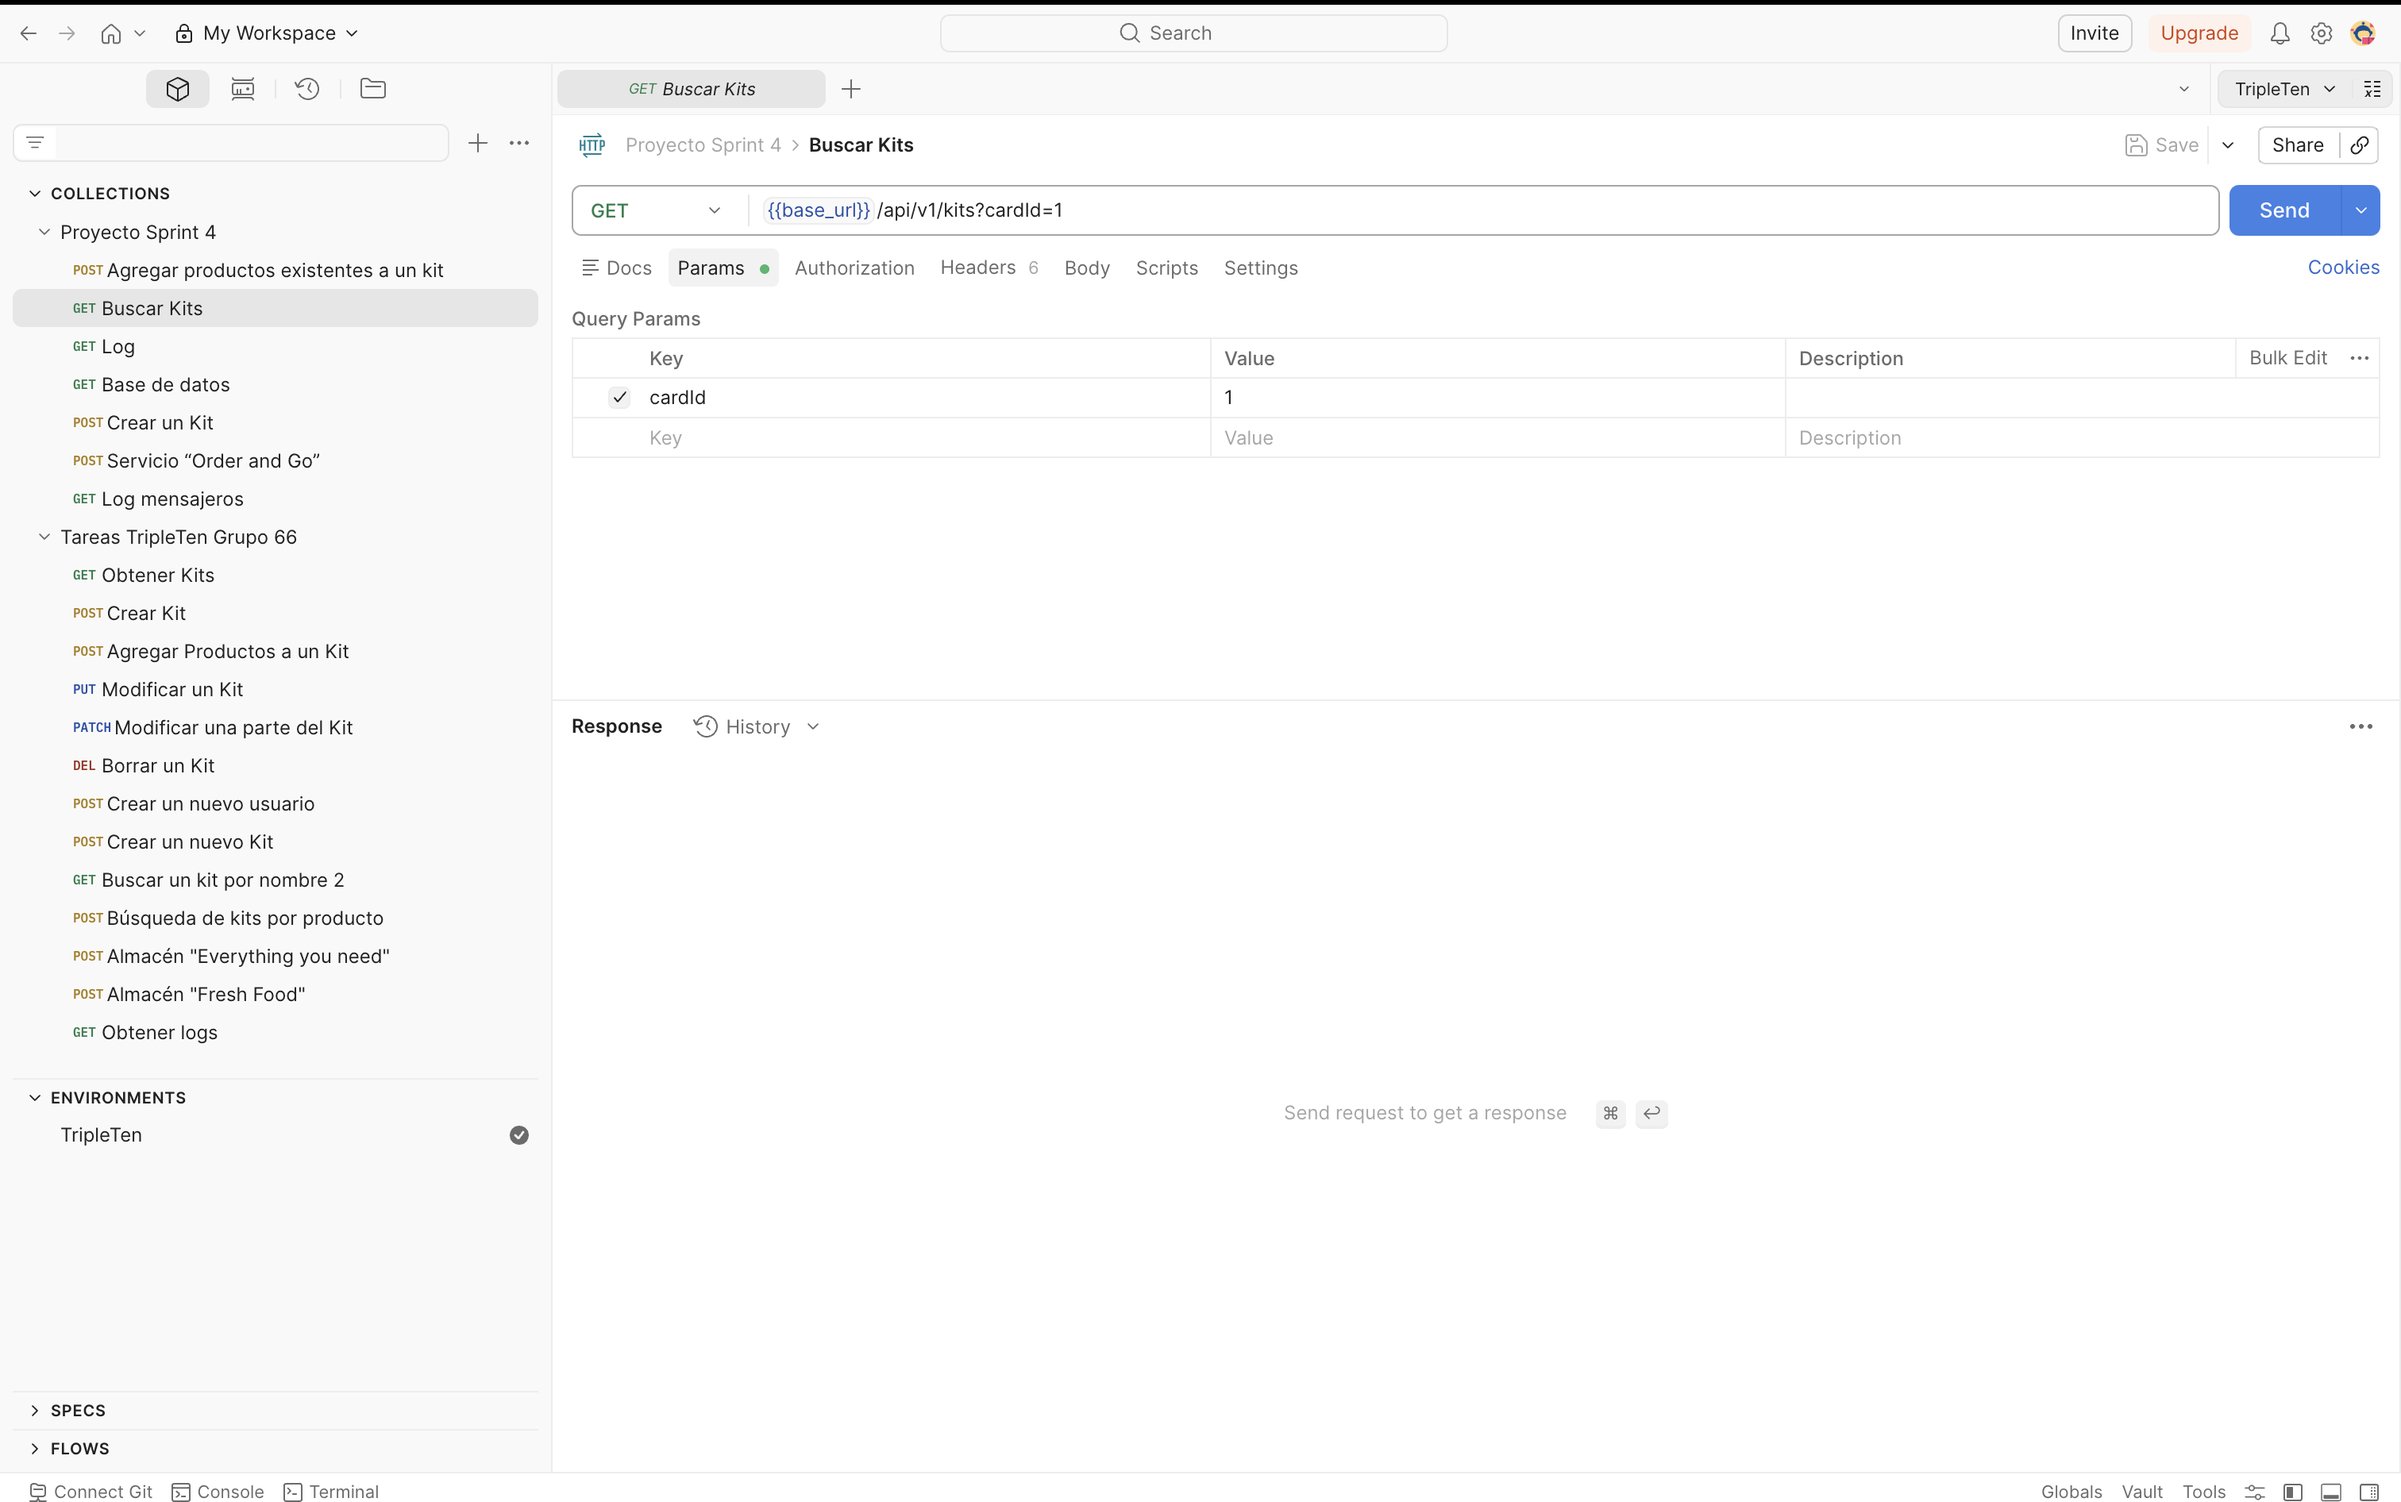
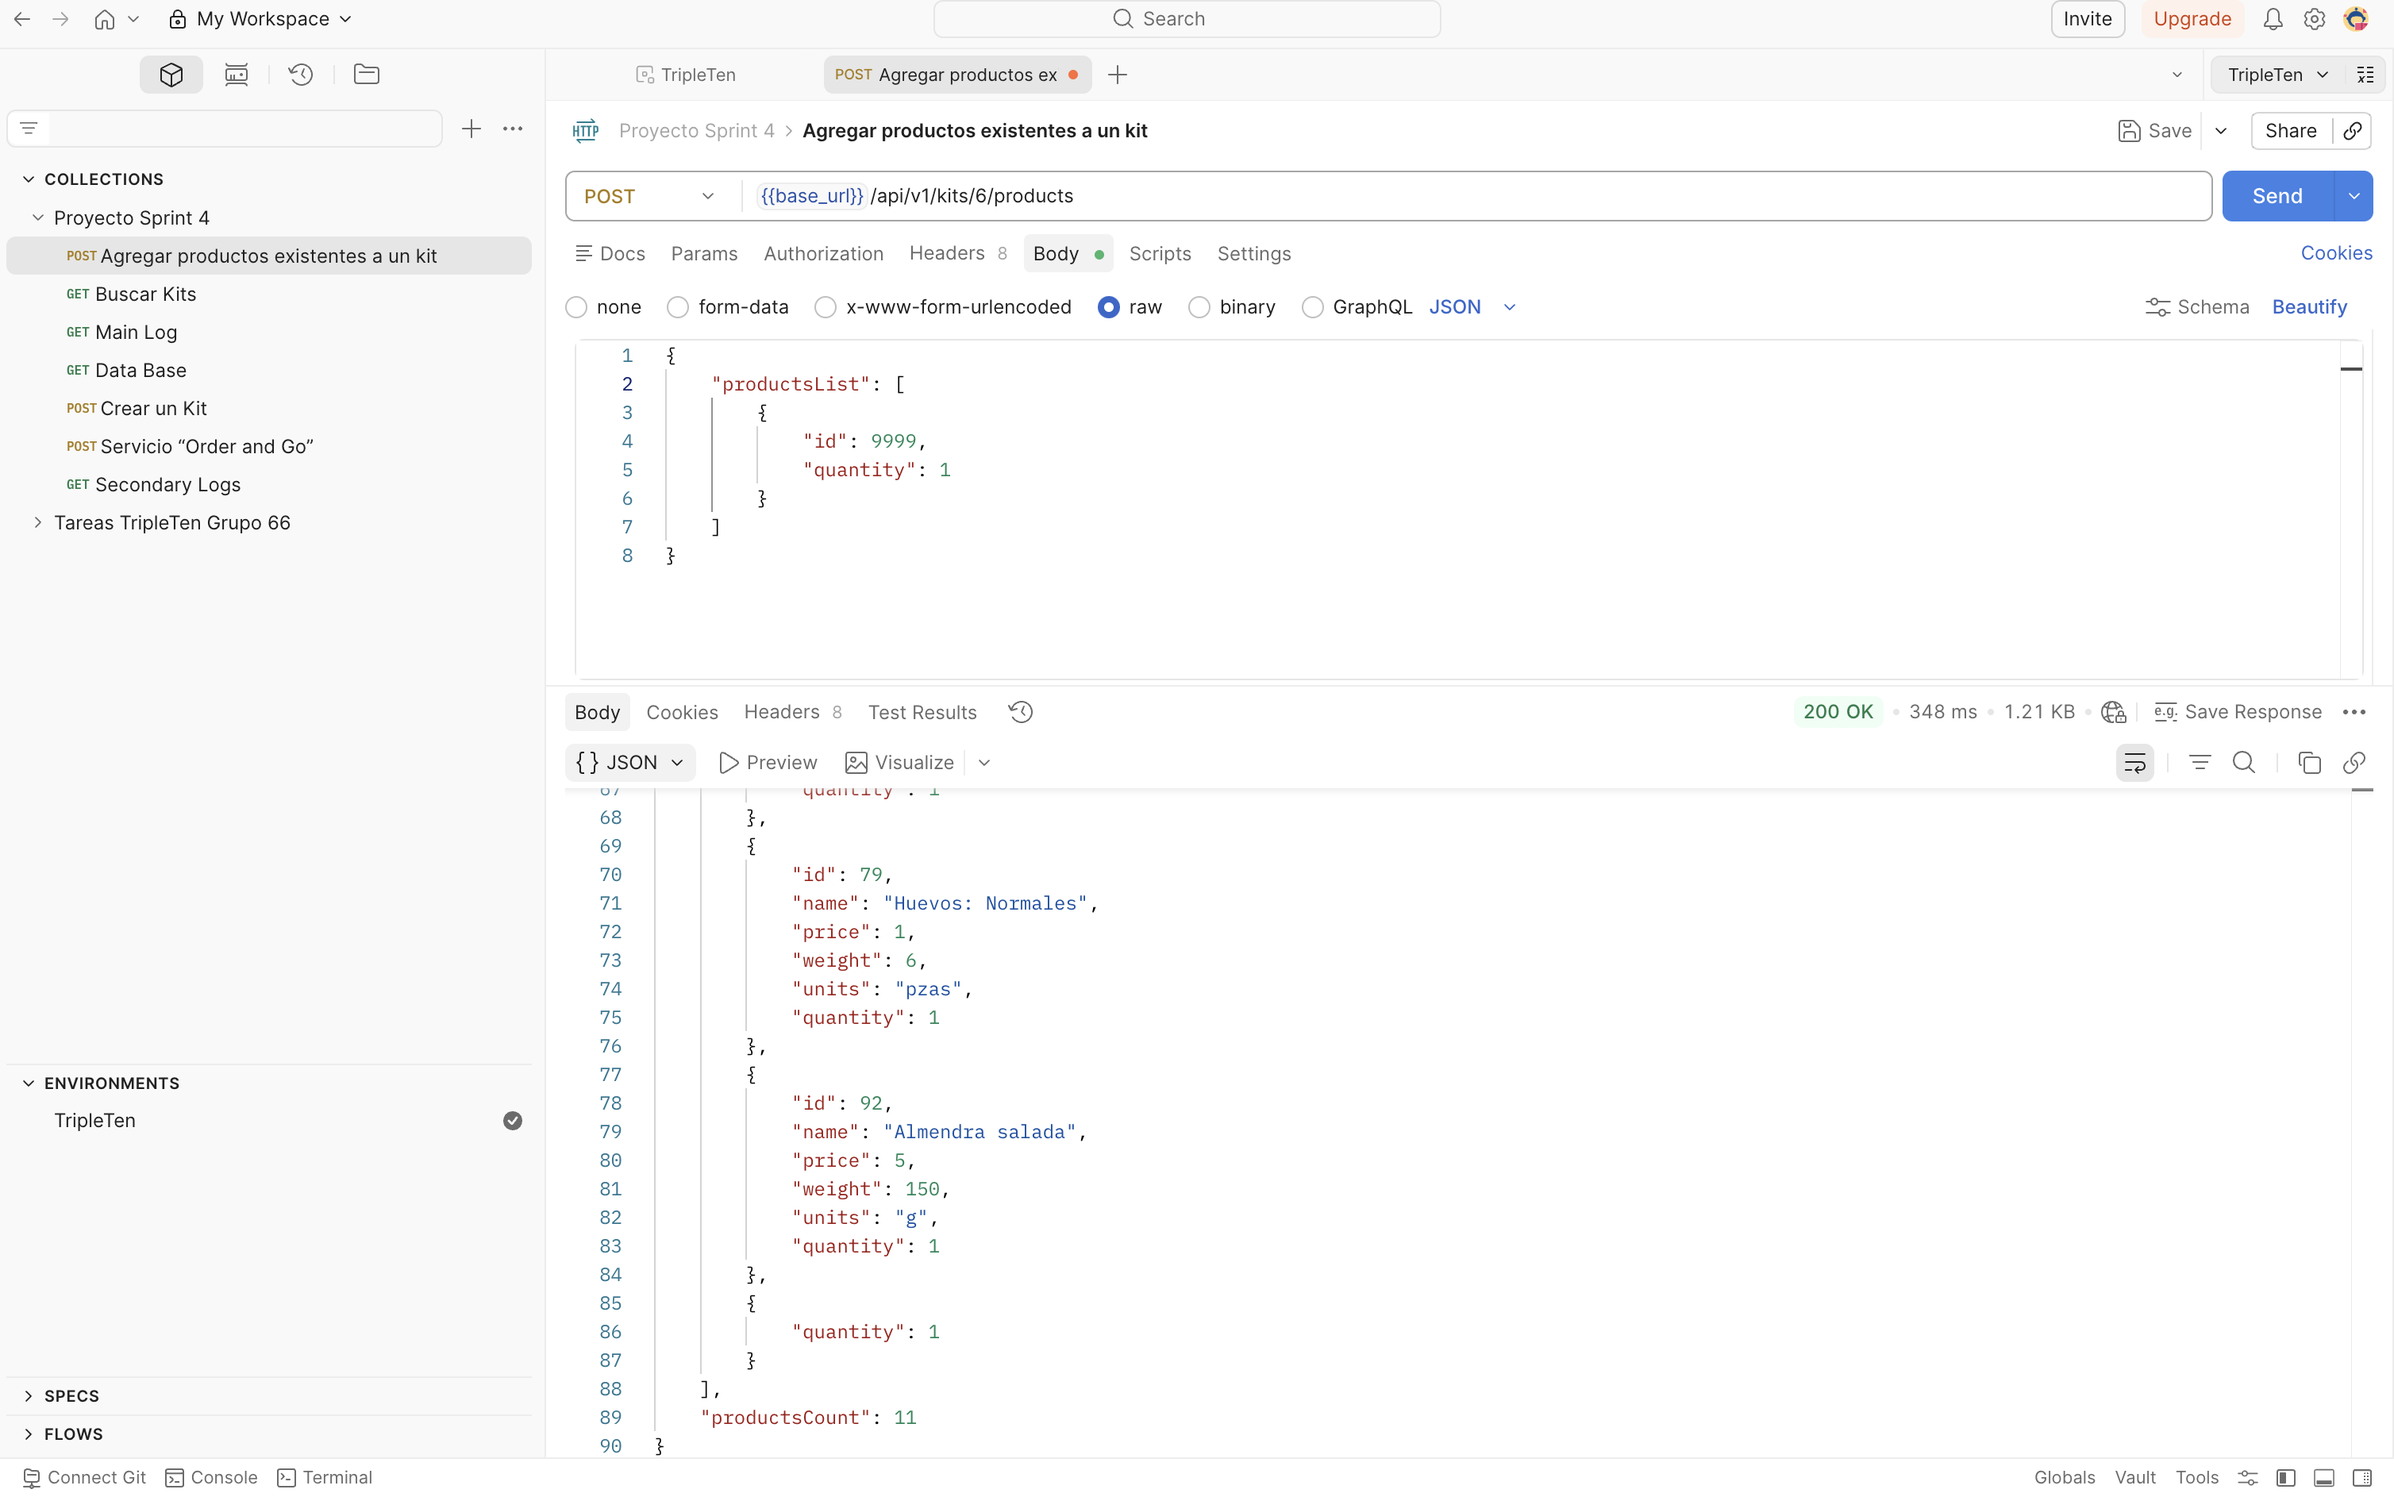
Changes

diff --git a/index.html b/index.html
@@ -560,7 +560,7 @@
       <div class="stats-grid">
         <div class="stat-card"><div class="num">10+</div><div class="lbl">Years in quality &amp; process improvement at multinationals</div></div>
         <div class="stat-card"><div class="num">148</div><div class="lbl">Test cases designed &amp; executed across bootcamp projects</div></div>
-        <div class="stat-card"><div class="num">64</div><div class="lbl">Defects documented in JIRA (27 web · 37 API)</div></div>
+        <div class="stat-card"><div class="num">64</div><div class="lbl">Defects documented in JIRA (27 web · 38 API)</div></div>
         <div class="stat-card"><div class="num">0</div><div class="lbl">Critical findings in ISO external audits led</div></div>
       </div>
     </div>
@@ -740,9 +740,9 @@
             <div class="proj-sec-lbl">📊 Results & Impact</div>
             <div class="proj-results">
               <div class="r-stat"><div class="rnum">71</div><div class="rlbl">Test cases executed</div></div>
-              <div class="r-stat"><div class="rnum">37</div><div class="rlbl">Defects documented in JIRA</div></div>
+              <div class="r-stat"><div class="rnum">38</div><div class="rlbl">Defects documented in JIRA</div></div>
               <div class="r-stat"><div class="rnum">3</div><div class="rlbl">API endpoints covered</div></div>
-              <div class="r-stat"><div class="rnum">52%</div><div class="rlbl">Failure rate (critical)</div></div>
+              <div class="r-stat"><div class="rnum">53.5%</div><div class="rlbl">Failure rate</div></div>
             </div>
           </div>
 
@@ -788,7 +788,13 @@
               <div class="sc-img-wrap">
                 <img src="screenshots/jira-urban-grocers-bugs.png" alt="JIRA Bug List Sprint 4" class="screenshot-img"/>
               </div>
-              <div class="sc-caption">JIRA Bug List — Sprint 4 (37 defects)</div>
+              <div class="sc-caption">JIRA Bug List — Sprint 4 (38 defects)</div>
+            </div>
+            <div class="sc-card">
+              <div class="sc-img-wrap">
+                <img src="screenshots/test-cases-grocers-routes.png" alt="JIRA Bug List Sprint 4" class="screenshot-img"/>
+              </div>
+              <div class="sc-caption">Test Cases Spreadsheet (71 cases)</div>
             </div>
           </div>
         </div>
